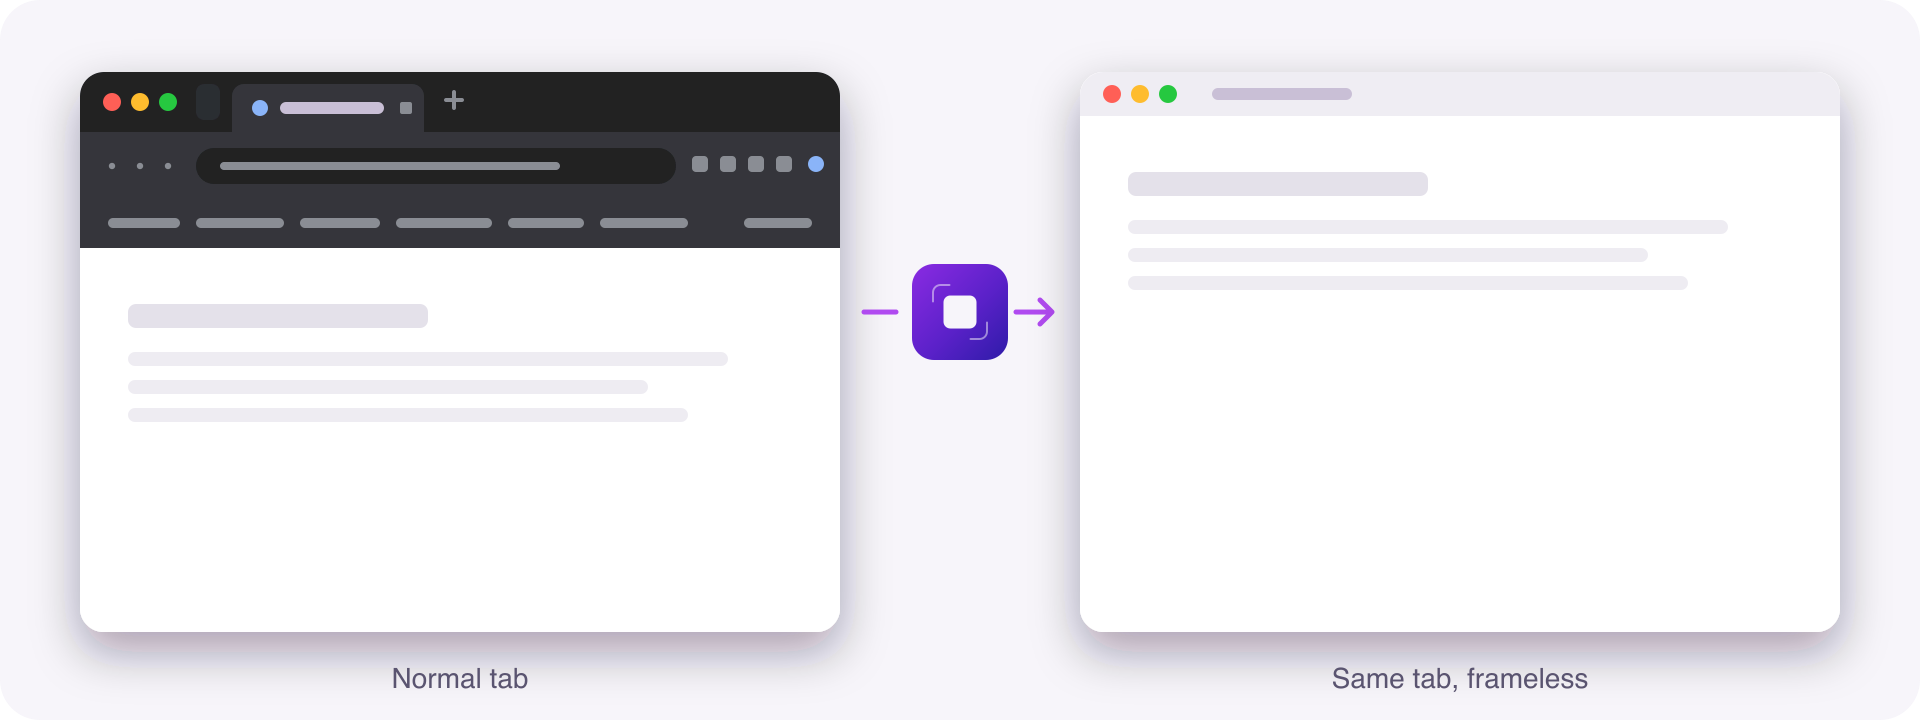
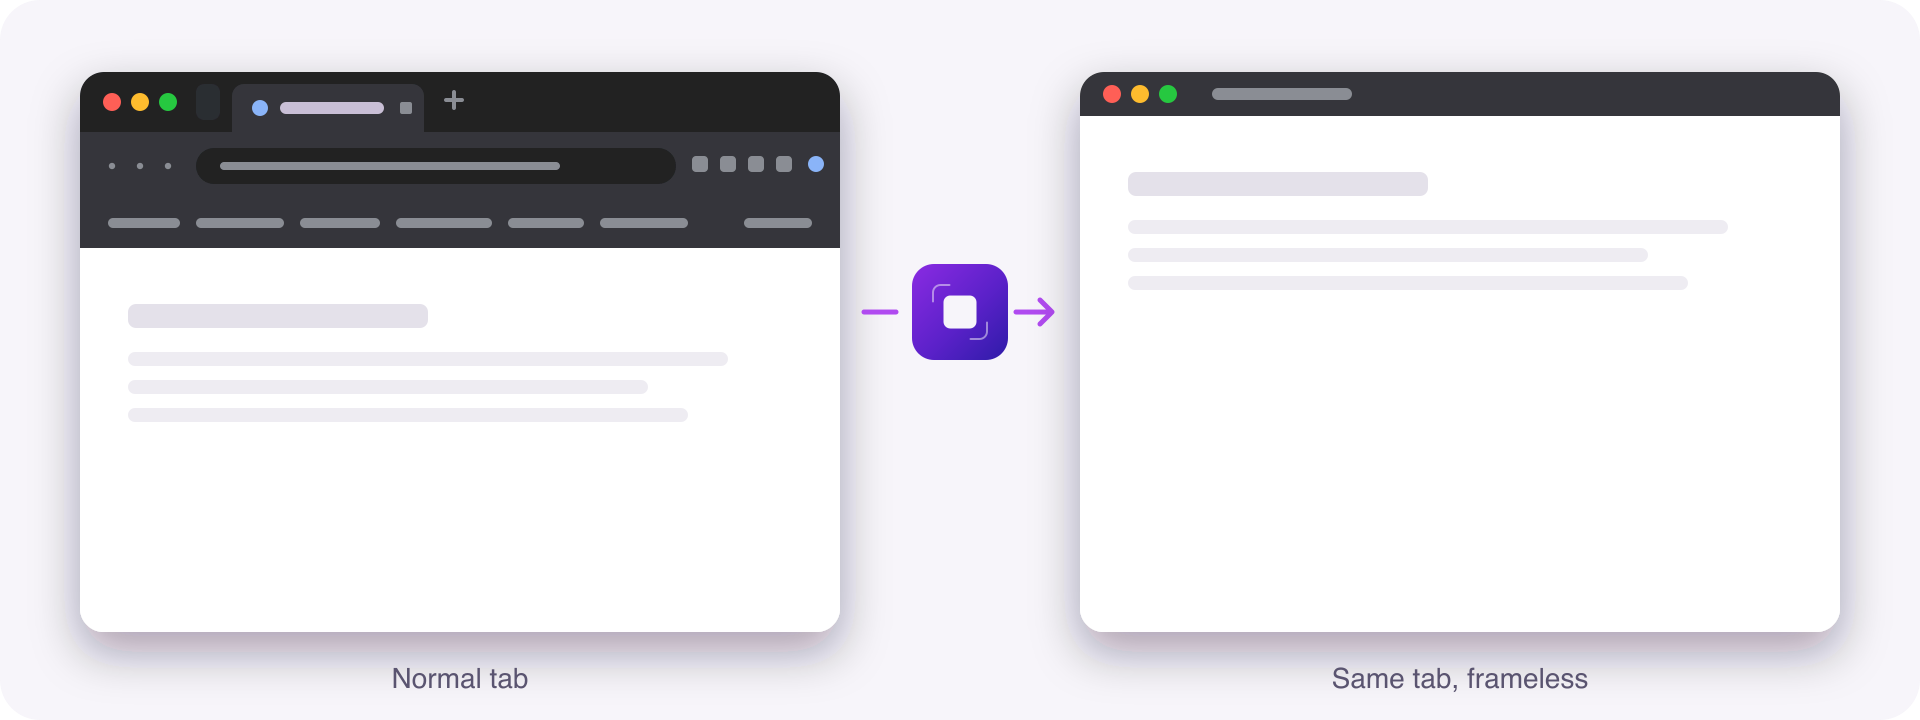
docs: dark title bar on frameless mockup

Changed region(s): [[0.5625, 0.0917, 0.9688, 0.1833]]

diff --git a/README.md b/README.md
@@ -11,7 +11,7 @@
 **Frameless** turns the current tab into a clean popup window with no tab strip, address bar, or bookmarks. Toggle again and the tab goes back where it came from. The page keeps its state either way.
 
 <p align="center">
-  <img src="./src/images/brand/before-after.png?v=2" alt="A normal Chrome tab and the same page after toggling Frameless" width="960">
+  <img src="./src/images/brand/before-after.png?v=3" alt="A normal Chrome tab and the same page after toggling Frameless" width="960">
 </p>
 
 ## Install
